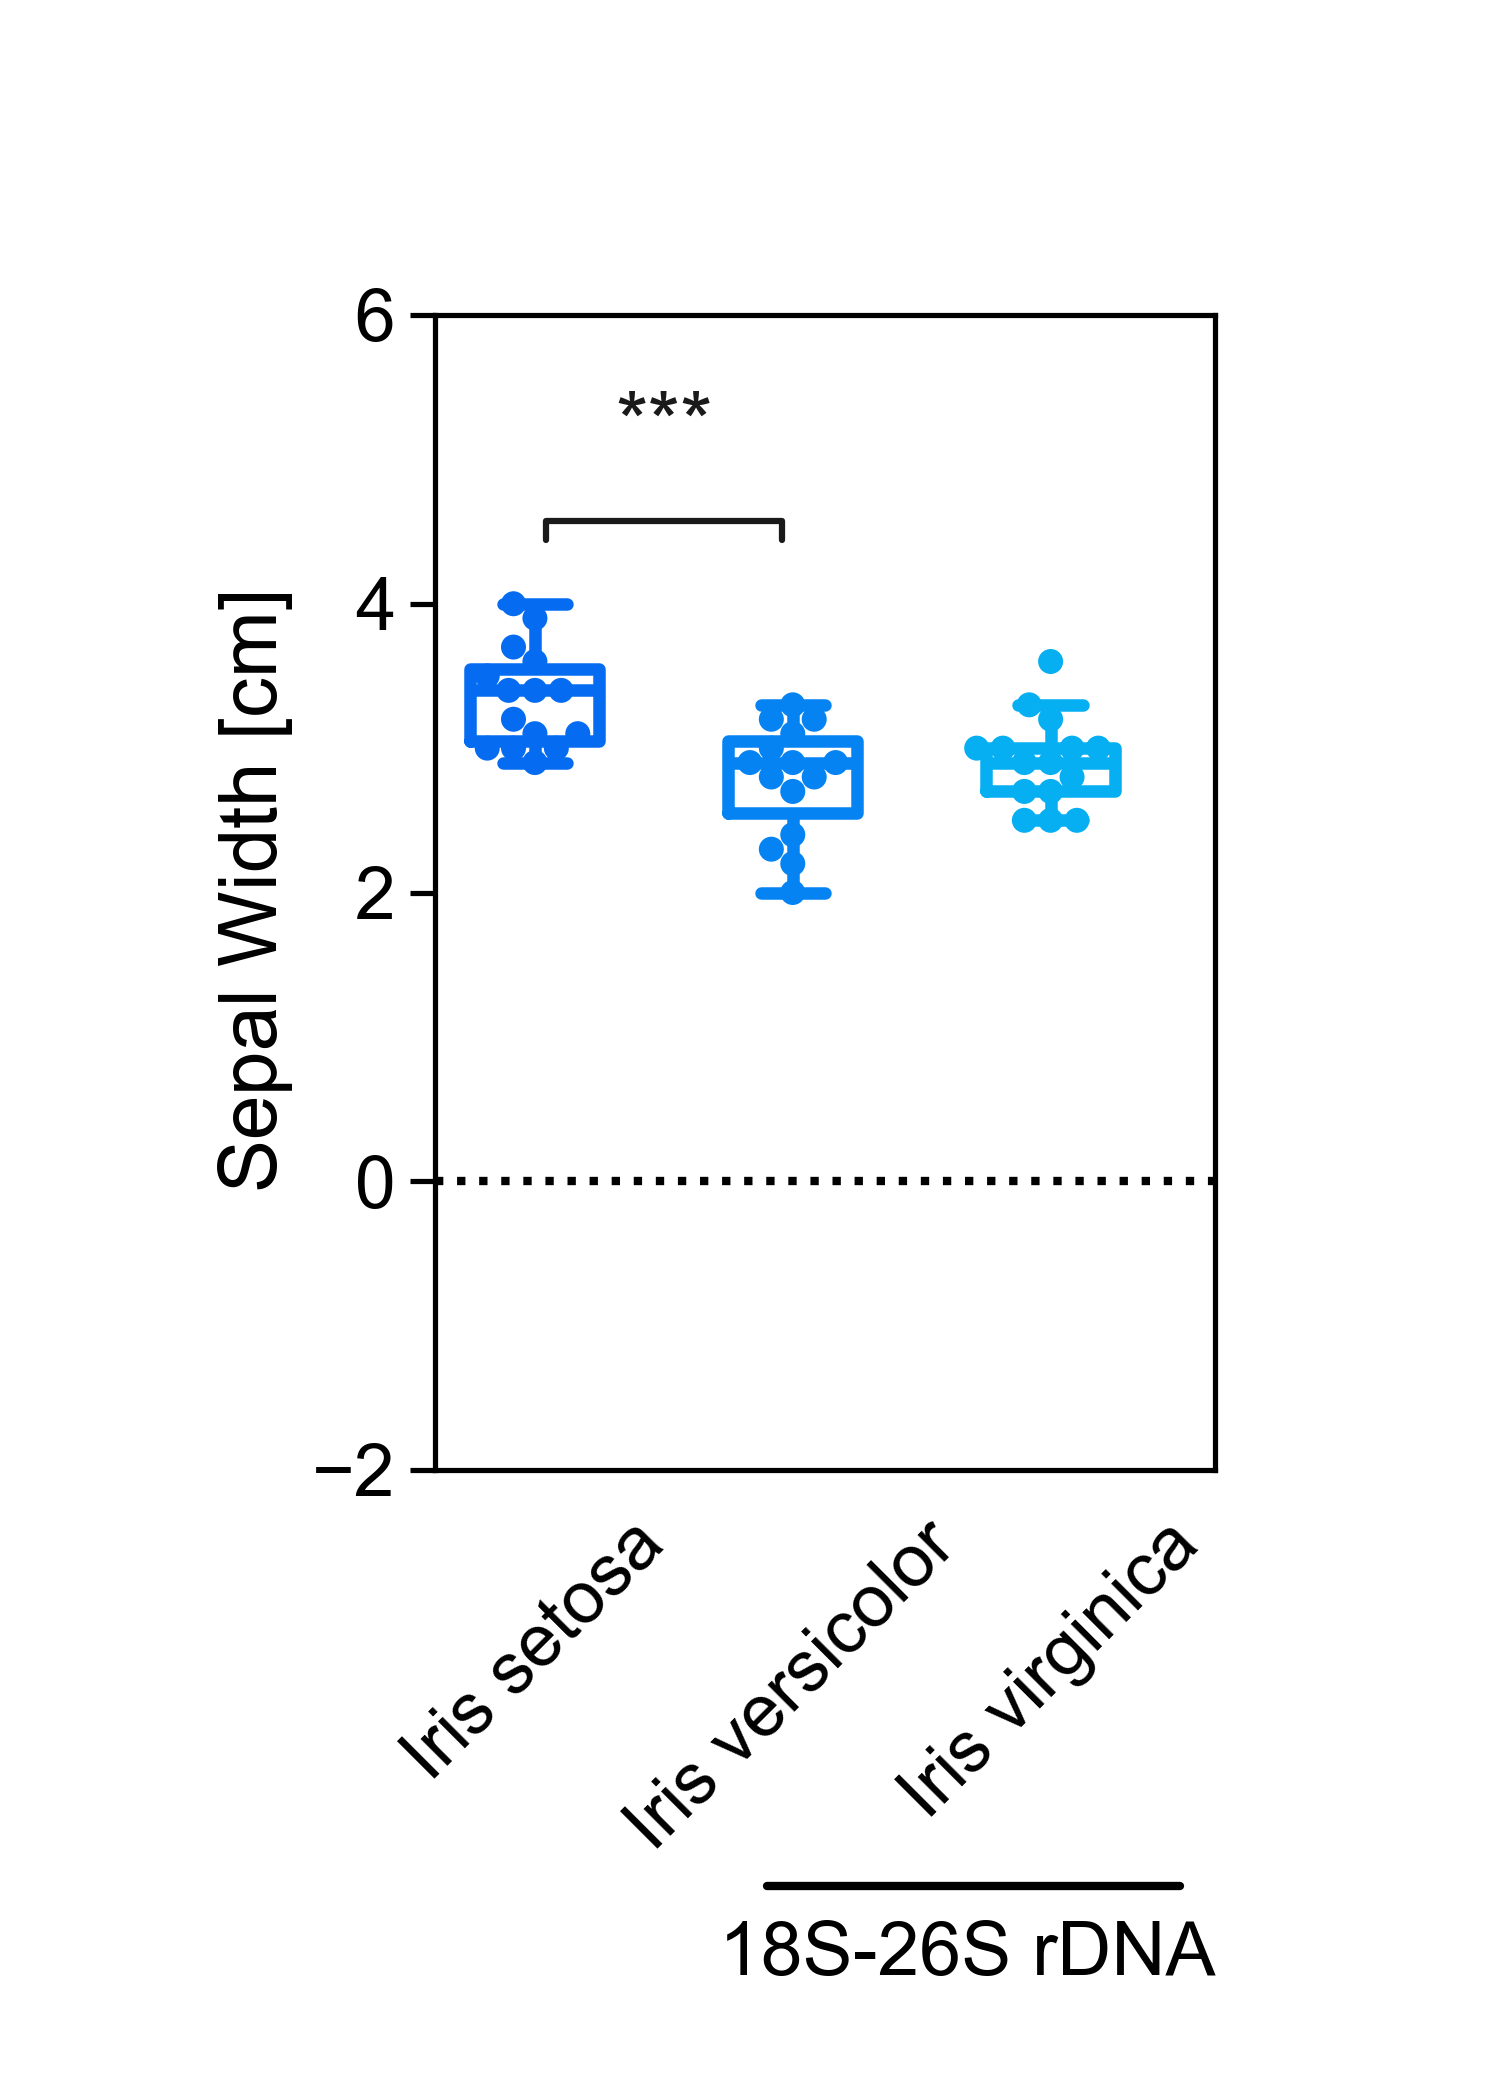
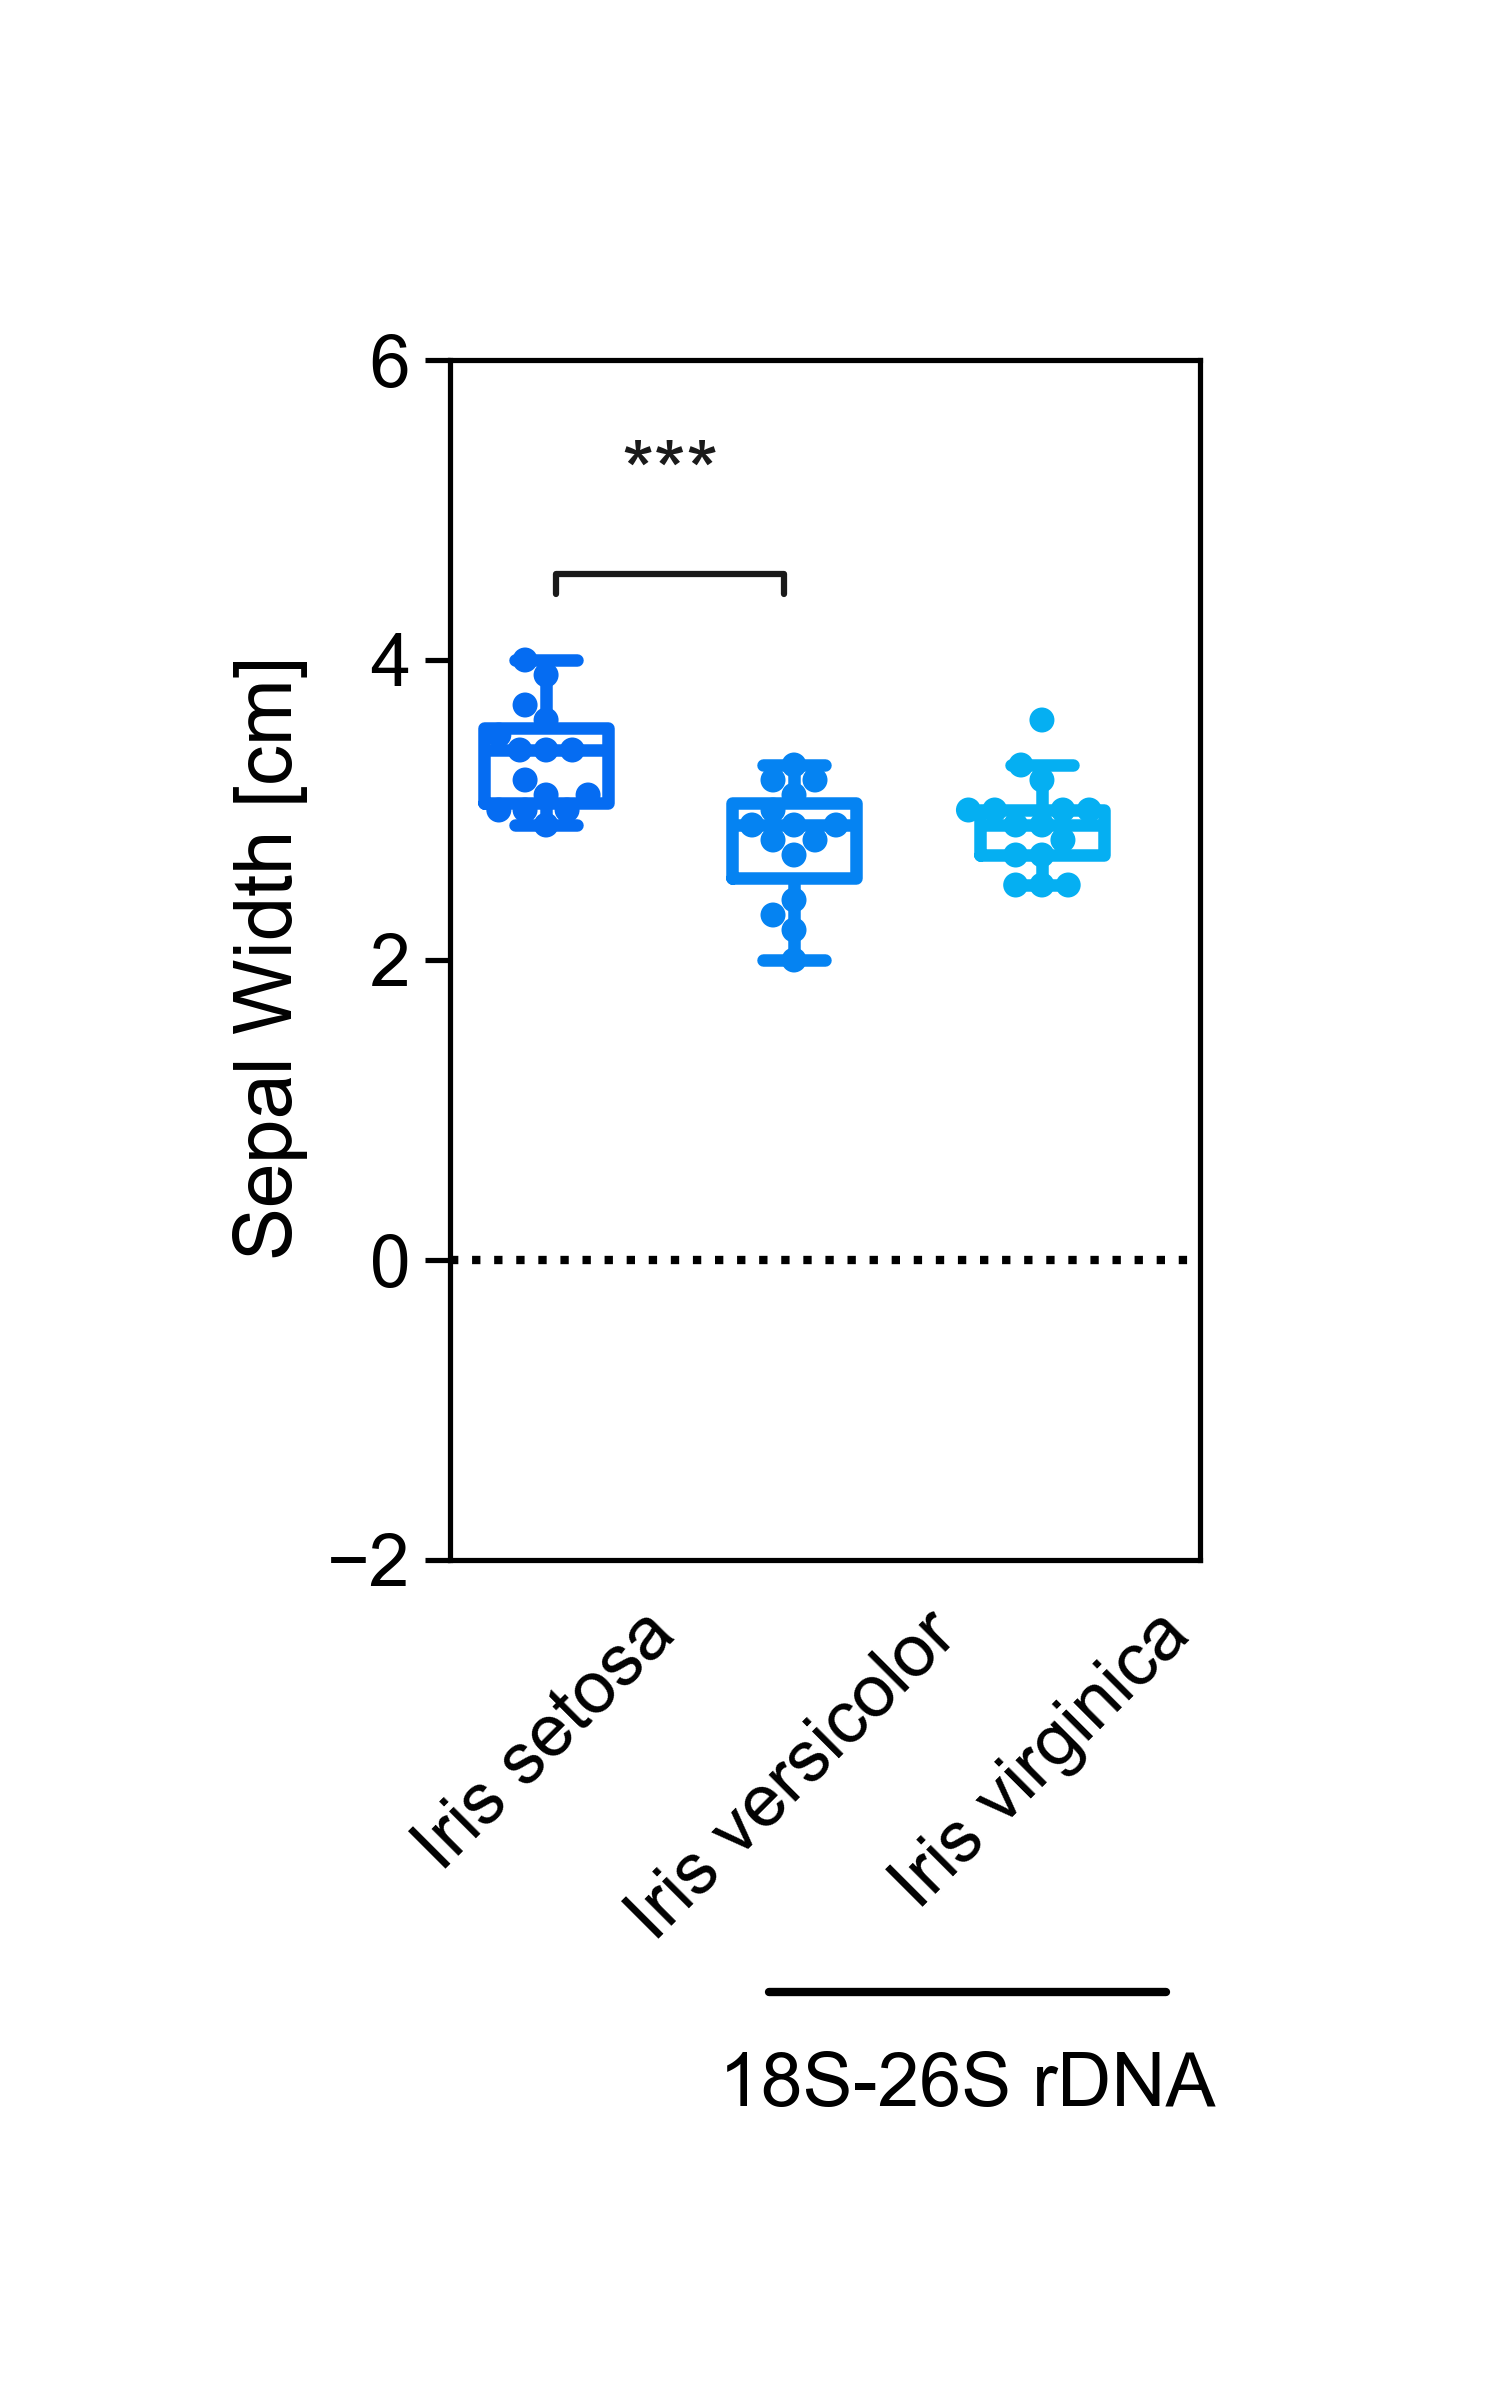
Improved spacing.

diff --git a/box_plot.py b/box_plot.py
@@ -36,7 +36,7 @@ def generate_plot(df,
 
     with plt.rc_context({'axes.edgecolor': 'black'}):
 
-        fig = plt.figure(figsize=(5, 7))
+        fig = plt.figure(figsize=(5, 8))
 
         # box plot
         box_width = 0.5
@@ -111,6 +111,9 @@ def generate_plot(df,
             # set y ranges
             ax.set(ylim=(plot_kwargs['dependent_variable_range'][0],
                          plot_kwargs['dependent_variable_range'][1]))
+            plt.yticks(np.linspace(plot_kwargs['dependent_variable_range'][0],
+                                   plot_kwargs['dependent_variable_range'][1],
+                                   num=5).tolist())
 
         # set x and y labels
         ax.set_xlabel('')
@@ -143,7 +146,7 @@ def generate_plot(df,
         # adjust subplots spacing
         # if subplots are added, can include, for e.g., 'wspace=0.4, hspace=0.4'
         # to control padding between subplots
-        plt.subplots_adjust(bottom=0.3, top=0.85, left=0.29, right=0.81)
+        plt.subplots_adjust(bottom=0.35, top=0.85, left=0.3, right=0.8)
 
         # add global title
         if 'super_title' in plot_kwargs:
@@ -153,7 +156,7 @@ def generate_plot(df,
         trans = ax.get_xaxis_transform()
         ax.plot([0.9, 2.5], [-.36, -.36],
                 color="black", transform=trans, clip_on=False, linewidth=2)
-        plt.figtext(0.645, 0.085, "18S-26S rDNA",
+        plt.figtext(0.645, 0.145, "18S-26S rDNA",
                     ha="center", va="top", fontsize=18, color="black")
 
 

diff --git a/LICENSE.md b/LICENSE.md
@@ -1,0 +1,22 @@
+
+The MIT License (MIT)
+
+Copyright (c) 2026 Charles Belanger Nzakimuena
+
+Permission is hereby granted, free of charge, to any person obtaining a copy
+of this software and associated documentation files (the "Software"), to deal
+in the Software without restriction, including without limitation the rights
+to use, copy, modify, merge, publish, distribute, sublicense, and/or sell
+copies of the Software, and to permit persons to whom the Software is
+furnished to do so, subject to the following conditions:
+
+The above copyright notice and this permission notice shall be included in all
+copies or substantial portions of the Software.
+
+THE SOFTWARE IS PROVIDED "AS IS", WITHOUT WARRANTY OF ANY KIND, EXPRESS OR
+IMPLIED, INCLUDING BUT NOT LIMITED TO THE WARRANTIES OF MERCHANTABILITY,
+FITNESS FOR A PARTICULAR PURPOSE AND NONINFRINGEMENT. IN NO EVENT SHALL THE
+AUTHORS OR COPYRIGHT HOLDERS BE LIABLE FOR ANY CLAIM, DAMAGES OR OTHER
+LIABILITY, WHETHER IN AN ACTION OF CONTRACT, TORT OR OTHERWISE, ARISING FROM,
+OUT OF OR IN CONNECTION WITH THE SOFTWARE OR THE USE OR OTHER DEALINGS IN THE
+SOFTWARE.
